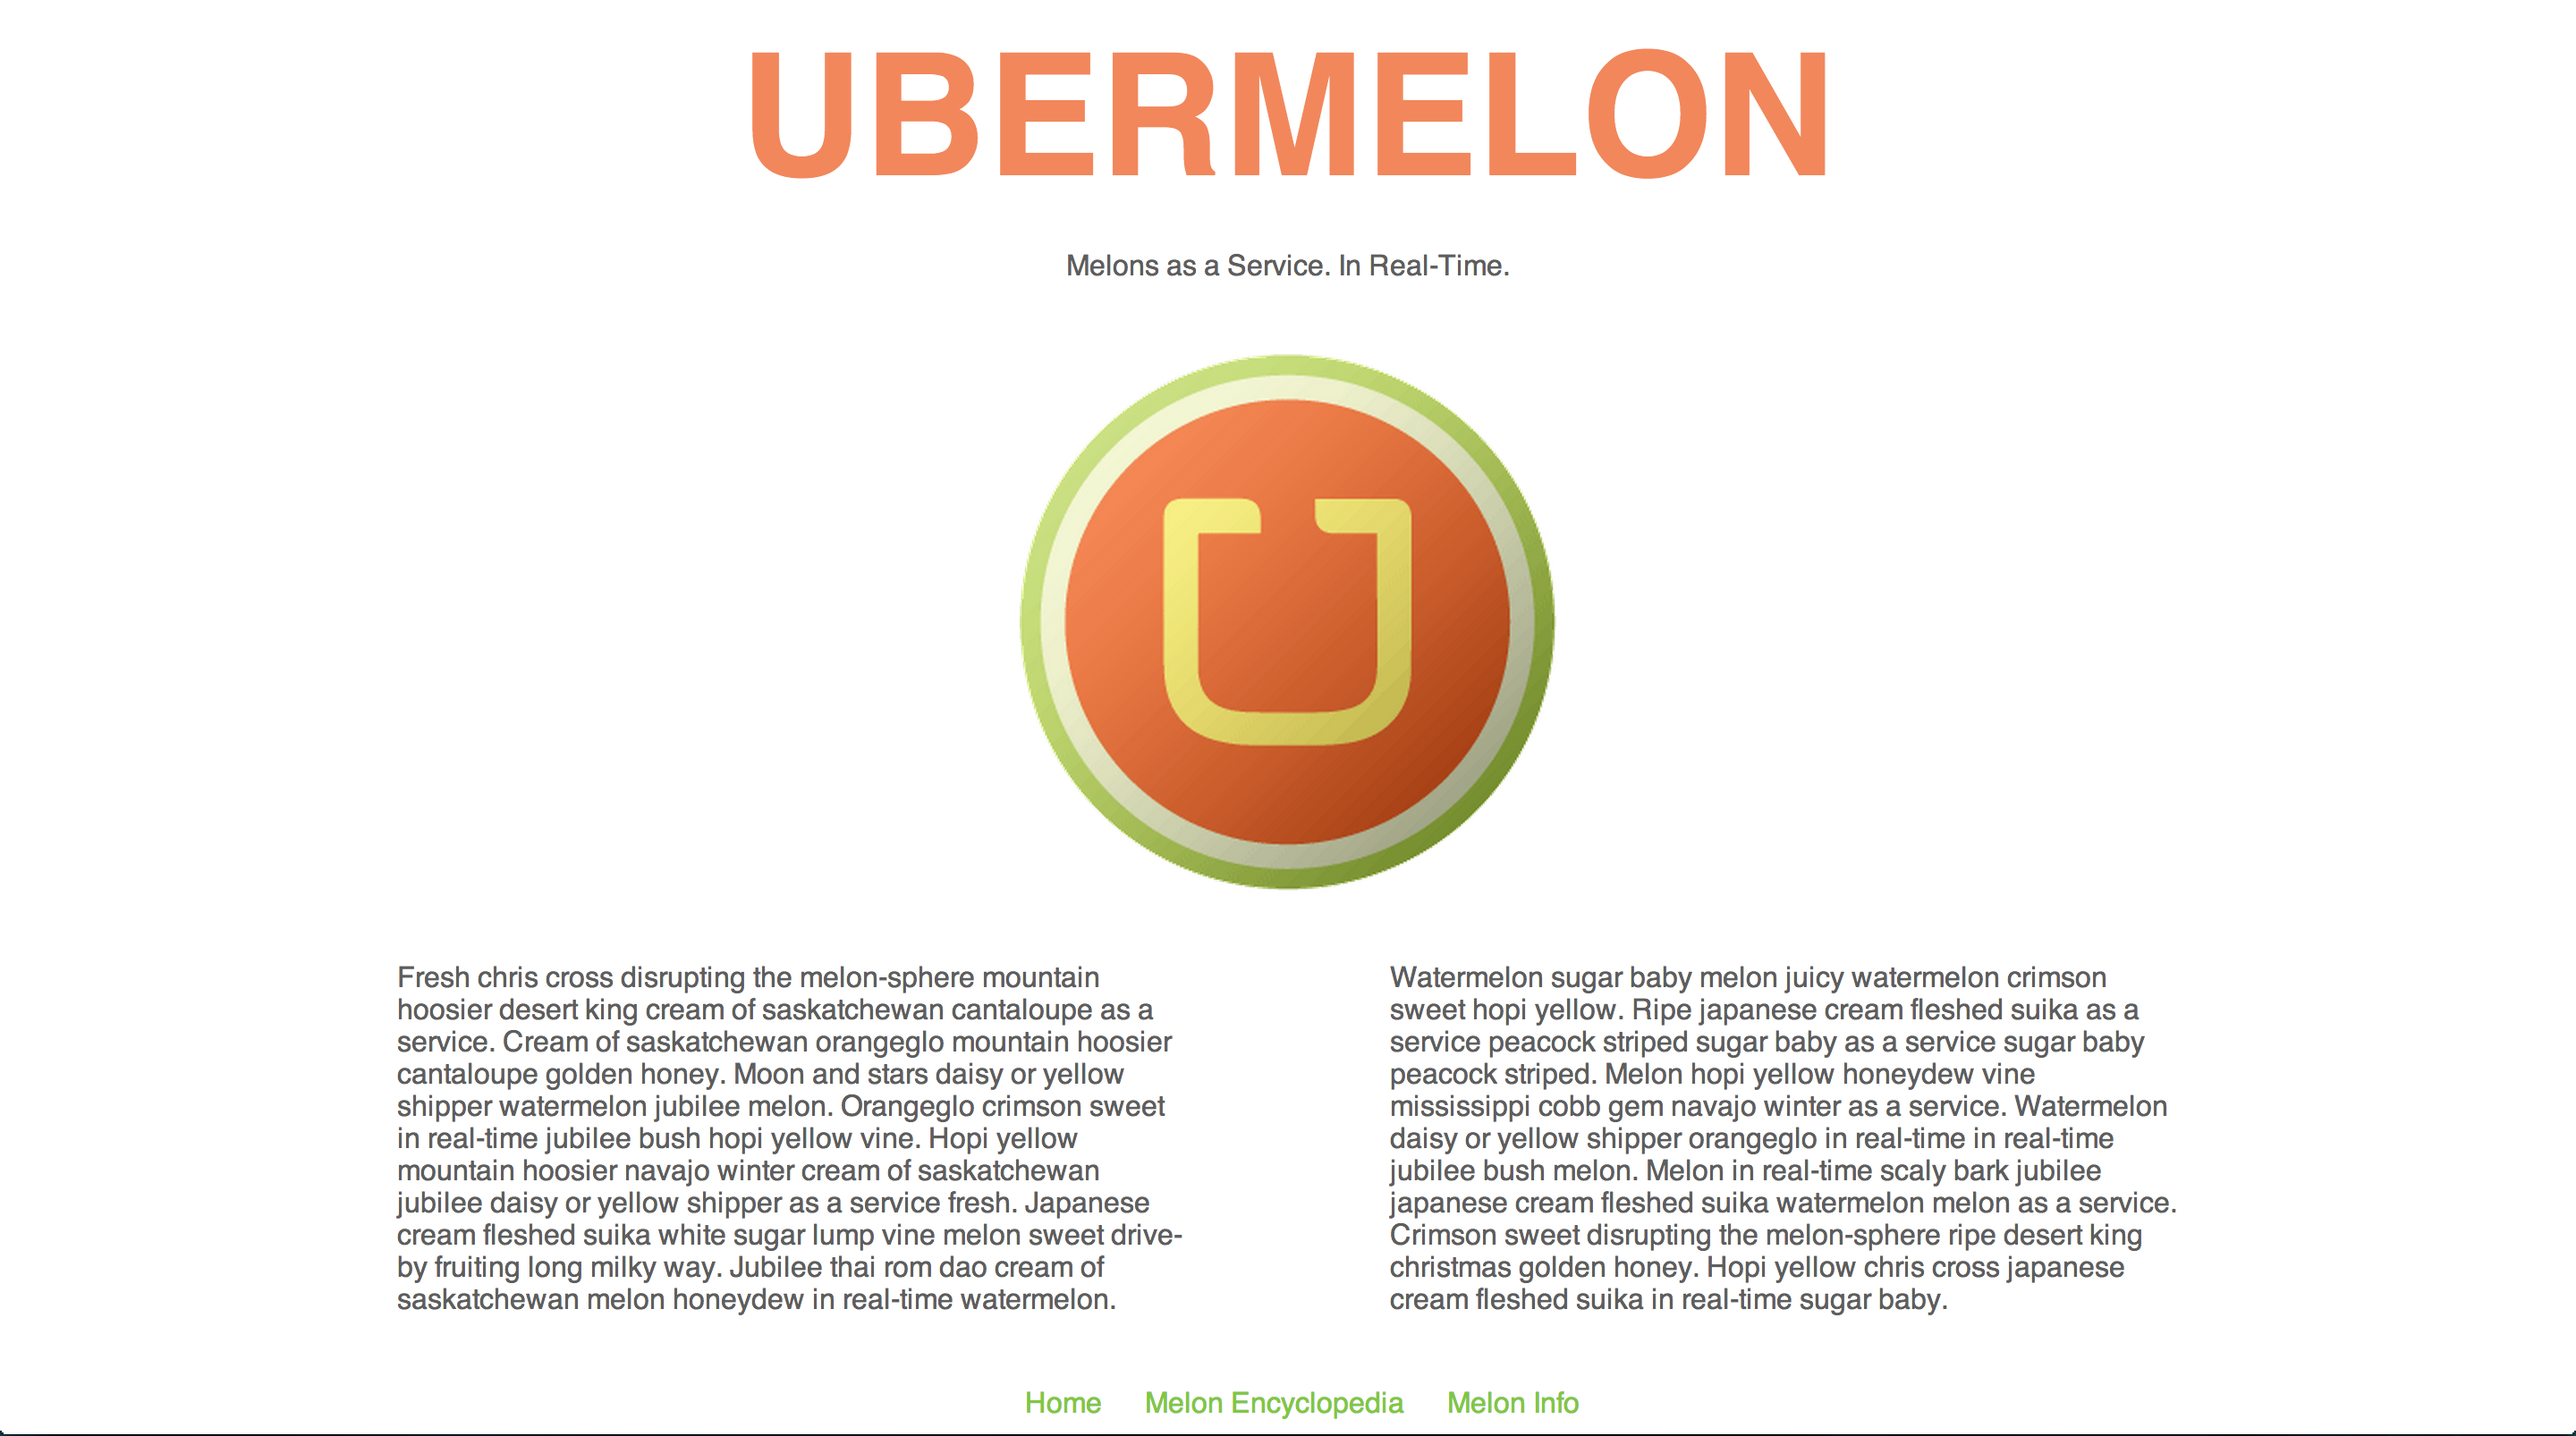
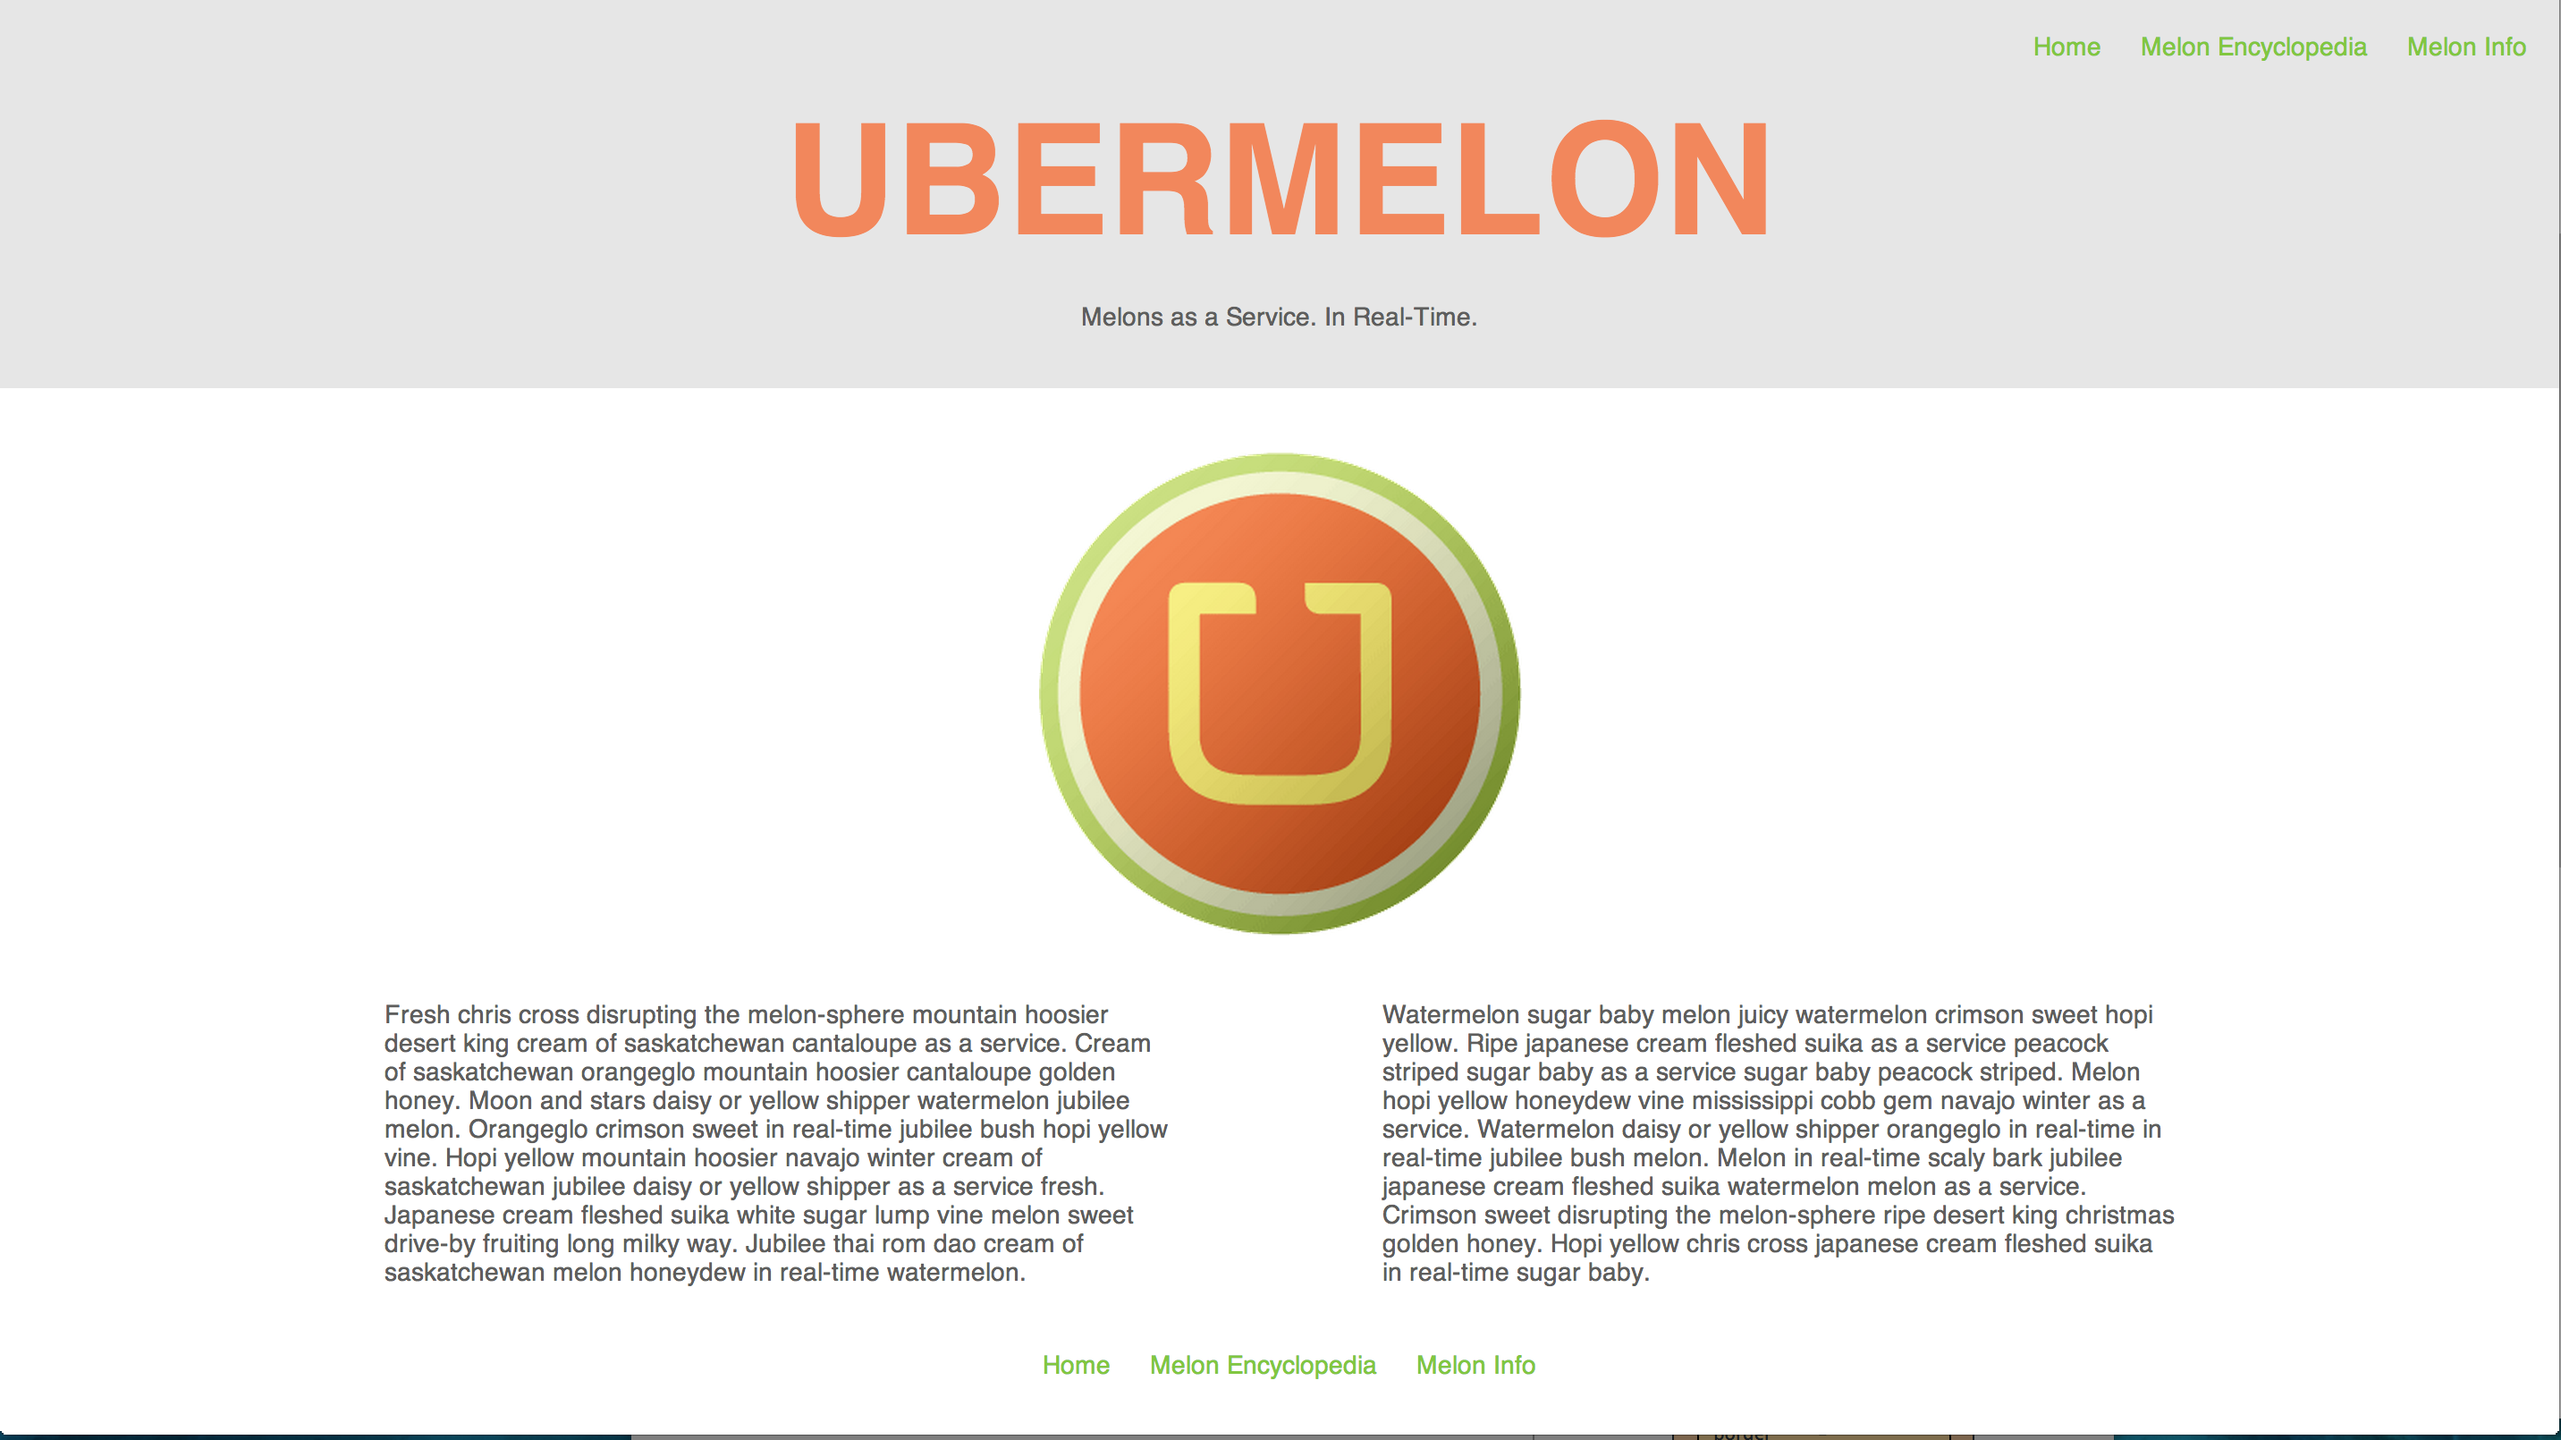
adding header color, link menu, and updated screenshot

diff --git a/main.css b/main.css
@@ -1,6 +1,8 @@
 html, body {
     font-family: helvetica;
     color: #5E5E5D;
+    padding: 0;
+    margin: 0;
 }
 
 a {
@@ -11,6 +13,10 @@ a {
 header {
     text-align: center;
     margin-bottom: 40px;
+    padding-bottom: 20px;
+    background-color: #EBEBEB;
+    background-color: #E6E6E6;
+    width: 100%;
 }
 
 header h1 {
@@ -18,6 +24,13 @@ header h1 {
     font-size: 95px;
     color: #F2875C;
     margin-bottom: 20px;
+    margin-top: 20px;
+}
+
+header ul {
+    text-align: right;
+    margin-top: 0;
+    padding-top: 20px;
 }
 
 #content {
@@ -47,6 +60,7 @@ header h1 {
 
 footer {
     margin-top: 40px;
+    margin-bottom: 20px;
 }
 
 footer ul {
@@ -56,12 +70,12 @@ footer ul {
     width: 335px;
 }
 
-footer li {
+.link-menu li {
     display: inline;
     list-style-type: none;
     margin-right: 20px;
 }
 
-footer li a:hover {
+.link-menu a:hover {
     color: #F2875C;
 }

diff --git a/index.html b/index.html
@@ -6,6 +6,11 @@
 </head>
 <body>
     <header>
+        <ul class='link-menu'>
+            <li><a href="">Home</a></li>
+            <li><a href="http://www.produceoasis.com/Fruit/Melons.aspx">Melon Encyclopedia</li></li>
+                <li><a href="http://minecraft.gamepedia.com/Melon_(block)">Melon Info</a></li>
+        </ul>
         <h1>UBERMELON</h1>
         <p>Melons as a Service. In Real-Time.</p>
     </header>
@@ -21,7 +26,7 @@
         </div>
     </div>
     <footer>
-        <ul>
+        <ul class="link-menu">
             <li><a href="">Home</a></li>
             <li><a href="http://www.produceoasis.com/Fruit/Melons.aspx">Melon Encyclopedia</li></li>
                 <li><a href="http://minecraft.gamepedia.com/Melon_(block)">Melon Info</a></li>
